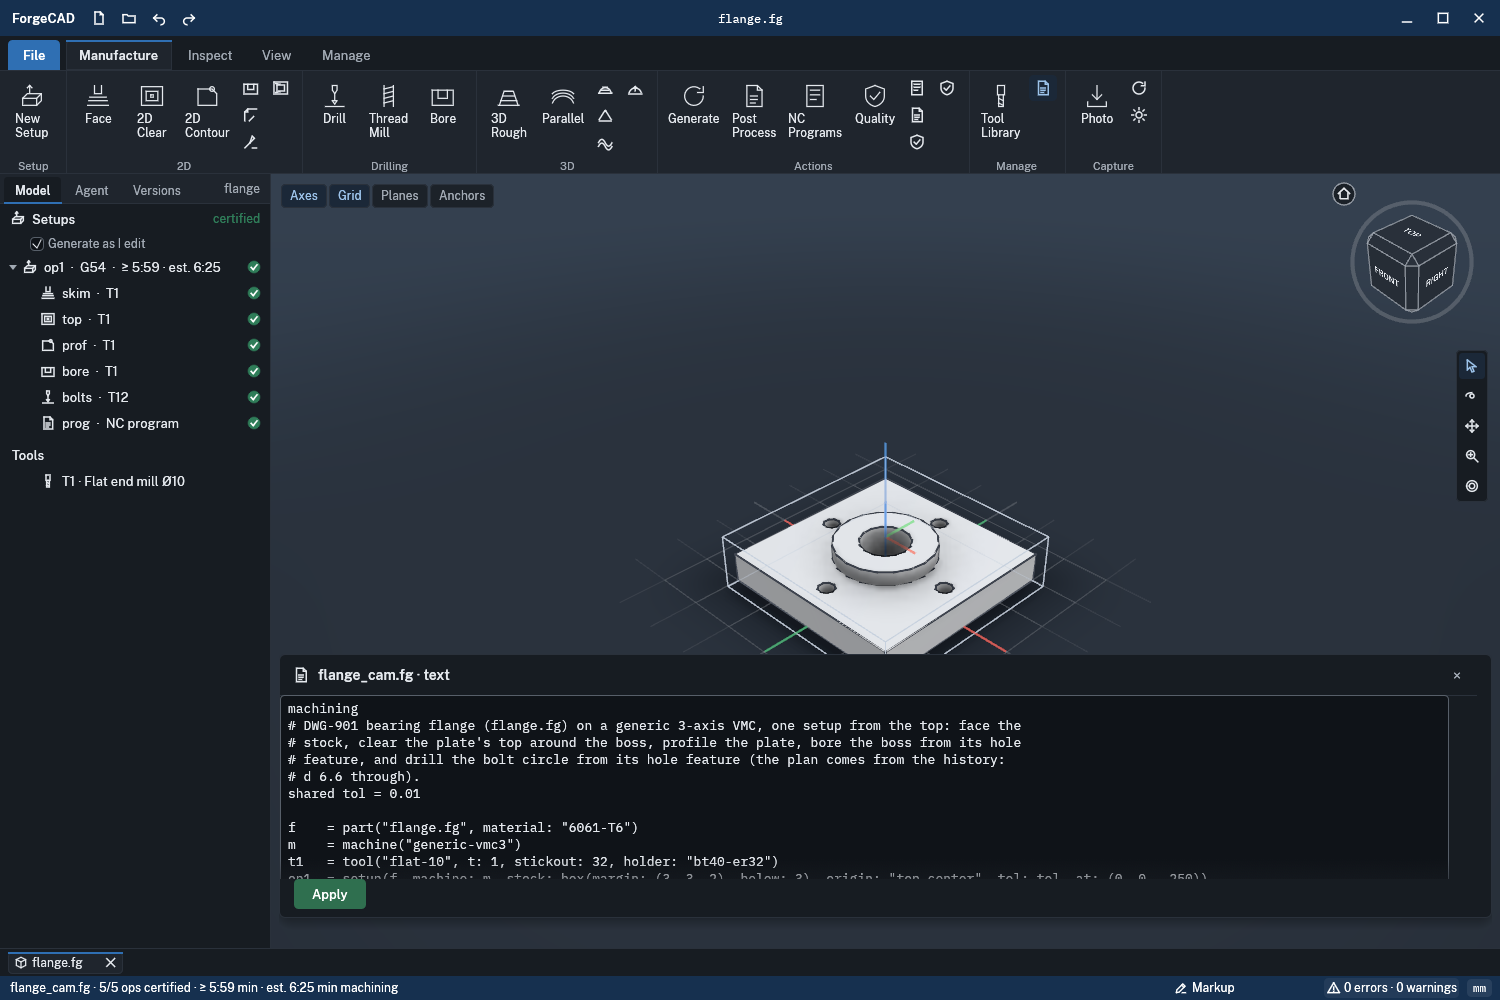
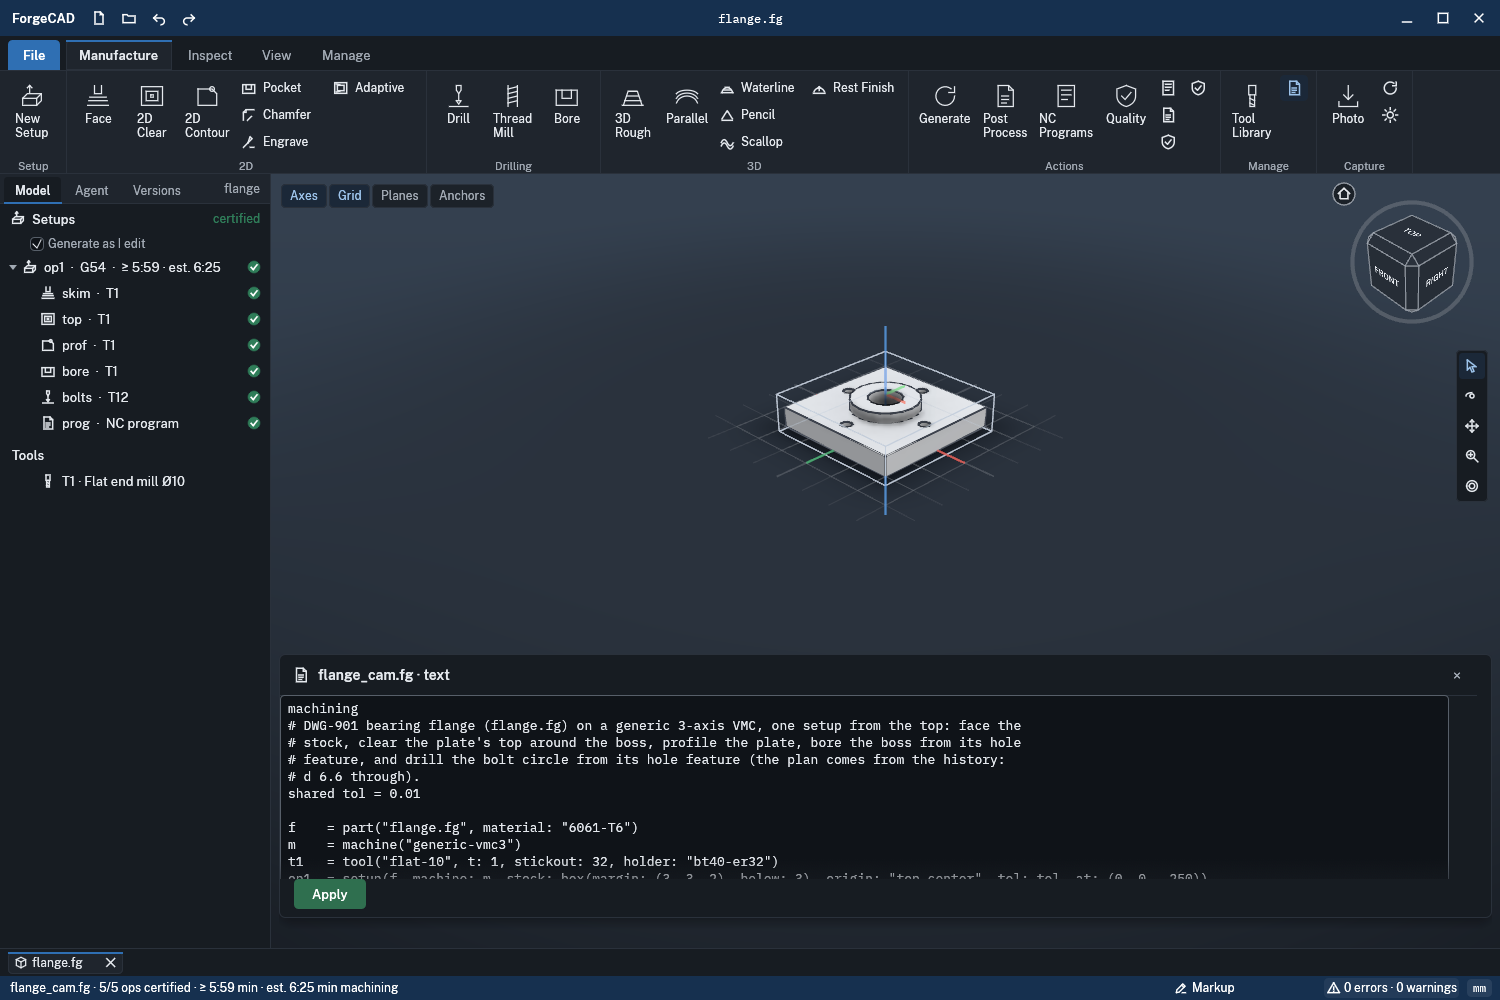
Manufacture: the view framed again into what Document Text's panel leaves; the Checks verdicts as wide as the Program tab's times
UX-LEAD's P1: opening (or closing) the bottom panel re-frames the view as the column does
(cam_reframe keys on the covered bottom too). CAM-SIM's ask: the Checks tab's verdict column at
the Program tab's 78 px.

Claude-Session: https://claude.ai/code/session_01WJtawySQLKzpnK7g6t2CVB

diff --git a/interface/forge-render/src/gui_cam.rs b/interface/forge-render/src/gui_cam.rs
@@ -224,13 +224,17 @@ impl Gui {
         let vr = self.shell.view_rect;
         let free = self.shell.camsim_free(vr);
         let Some(w) = &mut self.shell.cam else { return };
-        if (w.view_w - vr.width()).abs() < 1.0 {
+        // what covers the view's bottom: the timeline, and the Document Text panel above it
+        let text = if w.text_open { crate::shell::cam::text_panel_h(free.height()) + 4.0 } else { 0.0 };
+        let cover = vr.bottom() - free.bottom() + text;
+        if (w.view_w - vr.width()).abs() < 1.0 && (w.view_cover - cover).abs() < 1.0 {
             return;
         }
         let first = w.view_w == 0.0;
         // the width is taken only with a view to frame (a view made later is framed then)
         let Some(v) = &mut self.view else { return };
         w.view_w = vr.width();
+        w.view_cover = cover;
         // moved since this workspace last framed it (by the user, or another framing): keep
         // that view and pan it so the subject's centre is the new view's (docs/ux/STANDARD.md
         // §2); else frame it whole. The first width seen with a view is framed whole: the view
@@ -253,7 +257,7 @@ impl Gui {
             height: vr.height(),
             // the simulation's panel is in the properties column (outside `vr`) whenever there is
             // one, docked or not yet: only its timeline covers the view
-            covered: [0.0, 0.0, 0.0, vr.bottom() - free.bottom()],
+            covered: [0.0, 0.0, 0.0, cover],
         };
         // from the direction the view is seen from now, the subject at the standard's 70 %
         let (yaw, pitch) = (v.nav.camera.yaw.to_degrees(), v.nav.camera.pitch.to_degrees());

diff --git a/interface/forge-render/src/shell/cam/ui.rs b/interface/forge-render/src/shell/cam/ui.rs
@@ -3642,7 +3642,7 @@ fn text_window(ctx: &egui::Context, t: &Theme, v: Rect, w: &mut CamWs, places: &
     let mut close = false;
     let mut apply = false;
     // a panel across the bottom of the view, above the simulation's timeline (UX-LEAD)
-    let ph = (v.height() * 0.38).clamp(220.0, 380.0);
+    let ph = text_panel_h(v.height());
     let panel = Rect::from_min_max(pos2(v.left() + 8.0, v.bottom() - ph), pos2(v.right() - 8.0, v.bottom() - 4.0));
     let width = panel.width() - 16.0;
     let win = egui::Window::new("cam-text")
@@ -3890,6 +3890,12 @@ fn dialog_host<'a>(dock: Option<Rect>, id: &str, t: &Theme, win: egui::Window<'a
         ),
         None => Host::Float(Box::new(win)),
     }
+}
+
+/// The Document Text panel's height in a view (above the timeline) `free_h` tall: the view is
+/// re-framed into what it leaves (`Gui::cam_reframe`).
+pub fn text_panel_h(free_h: f32) -> f32 {
+    (free_h * 0.38).clamp(220.0, 380.0)
 }
 
 /// A column tab's rect as `dialog_host` takes it (it keeps a sheet's footer height free at the

diff --git a/interface/forge-render/src/shell/cam/mod.rs b/interface/forge-render/src/shell/cam/mod.rs
@@ -25,7 +25,7 @@ pub mod toollib;
 pub mod schema;
 pub mod turnview;
 mod ui;
-pub use ui::{CYCLE_TIP, certified_words, check_lines, cycle_words};
+pub use ui::{CYCLE_TIP, certified_words, check_lines, cycle_words, text_panel_h};
 pub use ui::{groups, status_line};
 
 use doc::{Edit, Role, Stmt};
@@ -307,6 +307,8 @@ pub struct CamWs {
     /// The view's width last frame (re-framed when the column comes or goes), and the camera
     /// this workspace last framed (the user's own moves are left alone).
     pub view_w: f32,
+    /// The view's bottom the panels cover (the timeline, Document Text) when last framed.
+    pub view_cover: f32,
     pub framed: Option<crate::camera::Camera>,
     pub posted_cache: Option<(u64, Vec<nc::PostedRow>)>,
 }
@@ -372,6 +374,7 @@ impl CamWs {
             sheet_hidden: false,
             sim_tab: false,
             view_w: 0.0,
+            view_cover: 0.0,
             framed: None,
             prog_field: None,
         };

diff --git a/interface/forge-render/tests/cam_ui.rs b/interface/forge-render/tests/cam_ui.rs
@@ -743,6 +743,12 @@ fn document_text_is_a_bottom_panel() {
     let v = h.gui.shell.view_rect;
     let e = h.placed("cam:text:edit").expect("the text");
     assert!(e.min.y > v.center().y - 40.0 && e.width() > v.width() * 0.6, "{e:?} in {v:?}");
+    // the view framed again into what the panel leaves
+    for _ in 0..3 {
+        h.step();
+    }
+    let w = h.gui.shell.cam.as_ref().unwrap();
+    assert!(w.view_cover >= forge_render::shell::cam::text_panel_h(v.height() * 0.5), "cover {}", w.view_cover);
     shot(&mut h, "cam-text-panel");
     // typed: the whole text replaced
     let typed = text(&h).replace("stickout: 32", "stickout: 34");

diff --git a/interface/forge-render/src/gui_camsim_panel.rs b/interface/forge-render/src/gui_camsim_panel.rs
@@ -1248,7 +1248,9 @@ fn checks(ui: &mut Ui, st: &mut CamSimUi, t: &crate::shell::theme::Theme) {
         for (name, words, c) in &st.op_checks {
             ui.horizontal(|ui| {
                 ui.label(egui::RichText::new(name).size(12.0).color(t.ink));
+                // right-aligned, as wide as the Program tab's time column (78 px at least)
                 ui.with_layout(egui::Layout::right_to_left(egui::Align::Center), |ui| {
+                    ui.set_min_width(78.0);
                     ui.label(egui::RichText::new(words).size(12.0).color(*c));
                 });
             });
